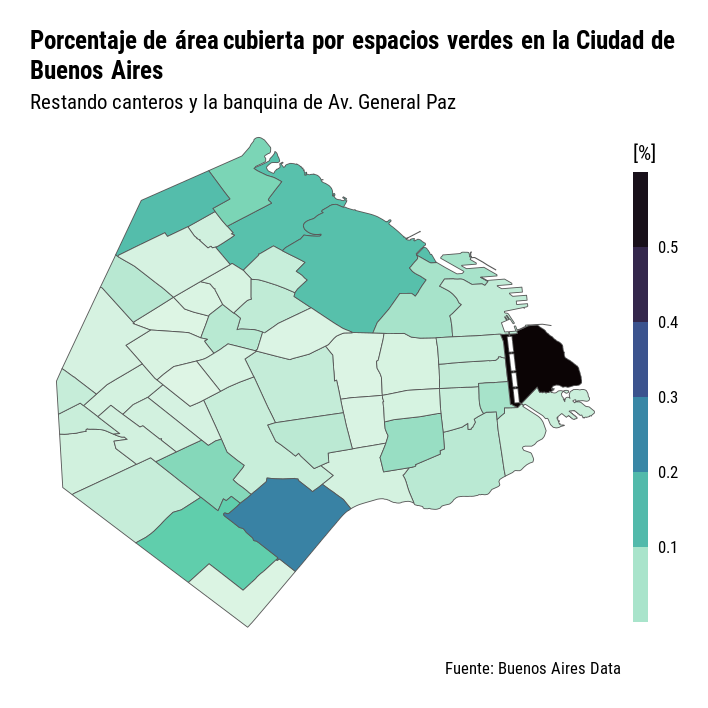
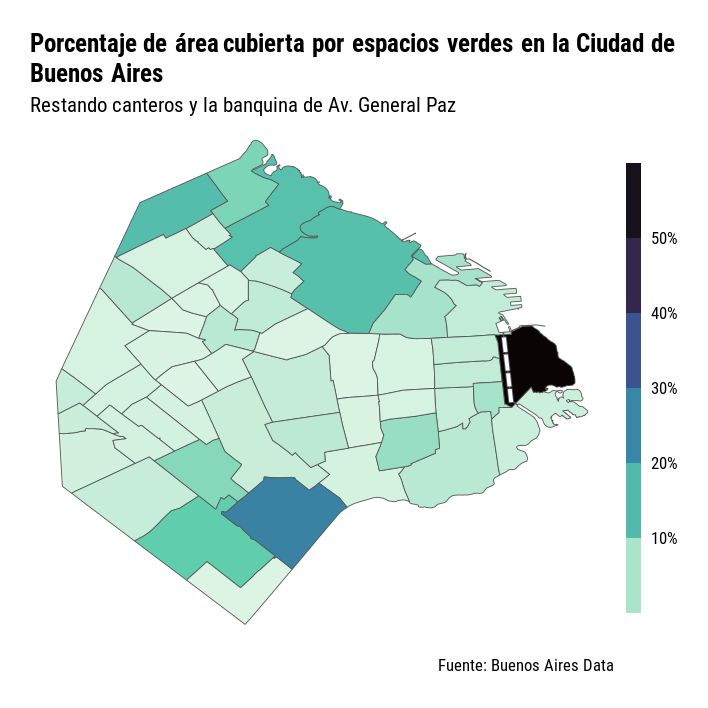
build

diff --git a/docs/day13.html b/docs/day13.html
@@ -341,7 +341,6 @@ Madero que tiene la Reserva Costanera Sur ahi mismo.</p>
   left_join(mapa_barrios) %&gt;% 
   ggplot(aes(geometry = geometry)) +
   geom_sf(aes(fill = area_barrio/AREA)) </code></pre>
-<pre><code>## Joining with `by = join_by(BARRIO)`</code></pre>
 <p><img src="day13_files/figure-html/unnamed-chunk-3-1.png" width="672" /></p>
 <p>Ahh pero si podemos contar los canteros de la 9 de Julio como
 espacios verdes, también podemos contar la banquina de la General Paz y
@@ -366,9 +365,10 @@ verdes %&gt;%
   ggplot(aes(geometry = geometry)) +
   geom_sf(aes(fill = area_barrio/AREA)) +
   scale_fill_viridis_c(option = &quot;G&quot;, direction = -1,
+                       labels = scales::percent_format(),
                        guide = guide_colorsteps(barwidth = 0.5,
                                                 barheight = 15)) +
-  labs(x = NULL, y = NULL, fill = &quot;[%]&quot;,
+  labs(x = NULL, y = NULL, fill = NULL,
        title = &quot;Porcentaje de área cubierta por espacios verdes en la Ciudad de Buenos Aires&quot;,
        subtitle = &quot;Restando canteros y la banquina de Av. General Paz&quot;,
        caption = &quot;Fuente: Buenos Aires Data&quot;) +
@@ -377,7 +377,6 @@ verdes %&gt;%
   theme(plot.title.position = &quot;plot&quot;,
         plot.title = ggtext::element_textbox_simple(face = &quot;bold&quot;),
         plot.margin = unit(c(0.5, 0.5, 0.5, 0.5), &quot;cm&quot;))</code></pre>
-<pre><code>## Joining with `by = join_by(BARRIO)`</code></pre>
 <p><img src="day13_files/figure-html/unnamed-chunk-5-1.png" width="672" /></p>
 <pre class="r"><code># ggsave(&quot;day13.png&quot;, device = png, type = &quot;cairo&quot;, bg = &quot;white&quot;, width = 12, height = 12, units = &quot;cm&quot;, dpi = 150)</code></pre>
 
